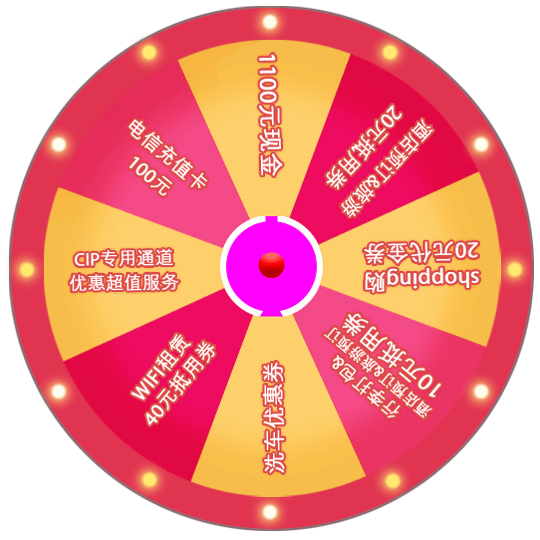
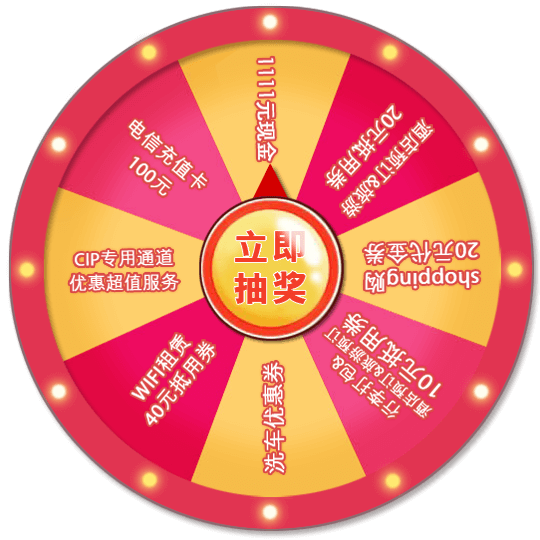
弹窗模块

diff --git a/src/pages/airport-rotate/rotate.scss b/src/pages/airport-rotate/rotate.scss
@@ -14,12 +14,15 @@
   position: relative;
   .shou{
     position: absolute;
-    top:38%;
-    right: 14%;
-    width: 100px !important;
-    height: 100px !important;
-    animation: flash 4s infinite ease;
-    animation-fill-mode: both;
+    left: 50%;
+    width: 240px !important;
+    margin-left: -120px;
+    top:40%;
+
+
+    height: auto !important;
+    //animation: flash 4s infinite ease;
+    //animation-fill-mode: both;
   }
   .bg-img {
     img {
@@ -34,7 +37,7 @@
     height: 520px;
     left: 50%;
     margin-left: -260px;
-    top: 44.5%;
+    top: 46.5%;
     img {
       width: 100%;
       height: auto;

diff --git a/src/pages/airport-rotate/airport-rotate.js b/src/pages/airport-rotate/airport-rotate.js
@@ -124,10 +124,10 @@ var app = new Vue({
 
 // 设置微信分享
 wxShare({
-    'imgUrl': require('./imgs/plate-none.png'),
+    'imgUrl': require('./imgs/share.jpg'),
     'link': window.location.href,
-    'desc': 'xxxxxx',
-    'title': 'xxxxxxxxxxxxxxxxxx',
+    'desc': '我在首都机场“双十一”幸运摇奖轮盘中赢了超值大奖，你也快来试试手气',
+    'title': '首都机场“双十一”幸运摇奖轮盘',
 })
 
 

diff --git a/src/pages/airport-rotate/partial.html b/src/pages/airport-rotate/partial.html
@@ -2,7 +2,7 @@
     <div class="bg-img">
         <img src="./imgs/banner1.jpg" alt=""/>
         <img src="./imgs/banner2.jpg" alt=""/>
-        <img @click="onShowGiftList" src="./imgs/shou.gif" class="shou" alt="">
+        <img @click="onShowGiftList" src="./imgs/button.png" class="shou" alt="">
     </div>
     <div class="plate">
         <div class="rotate-bg">
